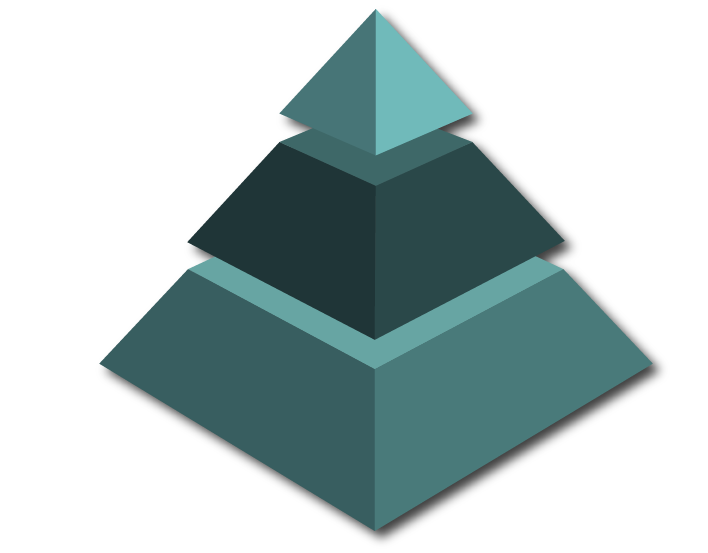
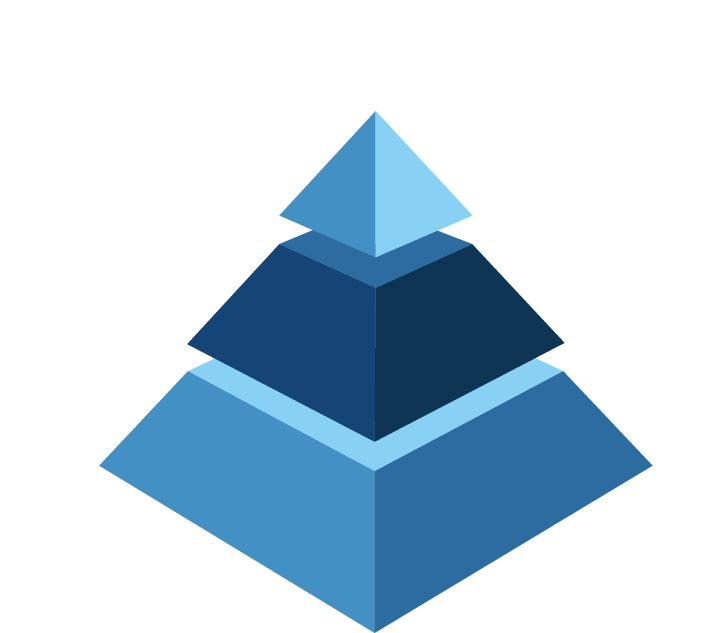
[Web] Color change / Hero picture

diff --git a/public/assets/css/style.css b/public/assets/css/style.css
@@ -145,7 +145,7 @@ body {
 	position: relative;
 	}
 	.section-title span {
-		background: rgba(24,254,245,0.4);
+		background: #144576;
 		padding: 4px 30px;
 		border-radius: 30px;
 		color: #fff;
@@ -189,8 +189,8 @@ body {
 	/*END SCROLL TO TOP*/
 	/*START BTN*/
 	.btn_one {
-		background-image: -webkit-linear-gradient(to right, #5e9999 0%, #477577 51%, #5e9999 100%);
-    	background-image: linear-gradient(to right, #5e9999 0%, #477577 51%, #5e9999 100%);
+		background-image: -webkit-linear-gradient(to right, #0196E7 0%, #FF00A4 51%, #FF00A4 100%); 
+		background-image: linear-gradient(to right, #0196E7 0%, #FF00A4 51%, #FF00A4 100%);
 		border-radius: 3px;
 		background-size: 200% auto;
 		border-style: none;

diff --git a/src/components/about/index.tsx b/src/components/about/index.tsx
@@ -4,7 +4,6 @@ import Breadcrumb from "../common/Breadcrumb";
 import ScrollTop from "../common/ScrollTop";
 import AboutAreaHomeThree from "../homes/home-3/AboutAreaHomeThree";
  import AboutIntroduction from "./AboutIntroduction";
-import ServiceAreaHomeThree from "../homes/home-3/ServiceAreaHomeThree";
 import Pyramid from "../common/Pyramid";
 const About = () => {
   return (
@@ -14,7 +13,6 @@ const About = () => {
       <AboutIntroduction />
       <AboutAreaHomeThree />
       <Pyramid />
-      <ServiceAreaHomeThree />
       <FooterOne />
       <ScrollTop />
     </>

diff --git a/src/components/homes/home-1/HeroAreaHomeOne.tsx b/src/components/homes/home-1/HeroAreaHomeOne.tsx
@@ -51,22 +51,6 @@ const HeroAreaHomeOne = () => {
       {/* Video modal end */}
 
       {/* Inline Styles */}
-      <style>{`
-        .btn_one {
-          display: inline-block;
-          background: #00bcd4;
-          color: #fff;
-          padding: 10px 20px;
-          border-radius: 5px;
-          transition: background 0.3s ease;
-        }
-
-        .btn_one:hover {
-          background: #0097a7;
-          text-decoration: none;
-          color: #fff;
-        }
-      `}</style>
     </>
   );
 };

diff --git a/src/components/homes/home-1/NewsletterAreaHomeOne.tsx b/src/components/homes/home-1/NewsletterAreaHomeOne.tsx
@@ -37,7 +37,7 @@ const NewsletterAreaHomeOne = () => {
                       style={{
                         border: 'none',
                         borderRadius: '0',
-                        backgroundColor: '#5fb7bf',
+                        backgroundColor: '#144576',
                         width: '20%', // Responsive width (percentage)
                         minWidth: '100px', // Ensures a minimum size
                       }}

diff --git a/src/components/homes/home-1/CapabilityCard.tsx b/src/components/homes/home-1/CapabilityCard.tsx
@@ -16,7 +16,7 @@ const CapabilityCard: React.FC<CapabilityCardProps> = ({ title, description }) =
           style={{
             width: "50px",
             height: "4px",
-            backgroundColor: "#127176",
+            backgroundColor: "#144576",
             margin: "0 auto",
           }}
         ></div>

diff --git a/src/components/homes/home-1/ChooseAreaHomeOne.tsx b/src/components/homes/home-1/ChooseAreaHomeOne.tsx
@@ -102,7 +102,7 @@ const ChooseAreaHomeOne: React.FC = () => {
           }
 
           .feature-card h4 {
-            color: #18FEF542;
+            color: #144576;
             margin-bottom: 10px;
             font-size: 1.2rem;
             font-weight: bold;
